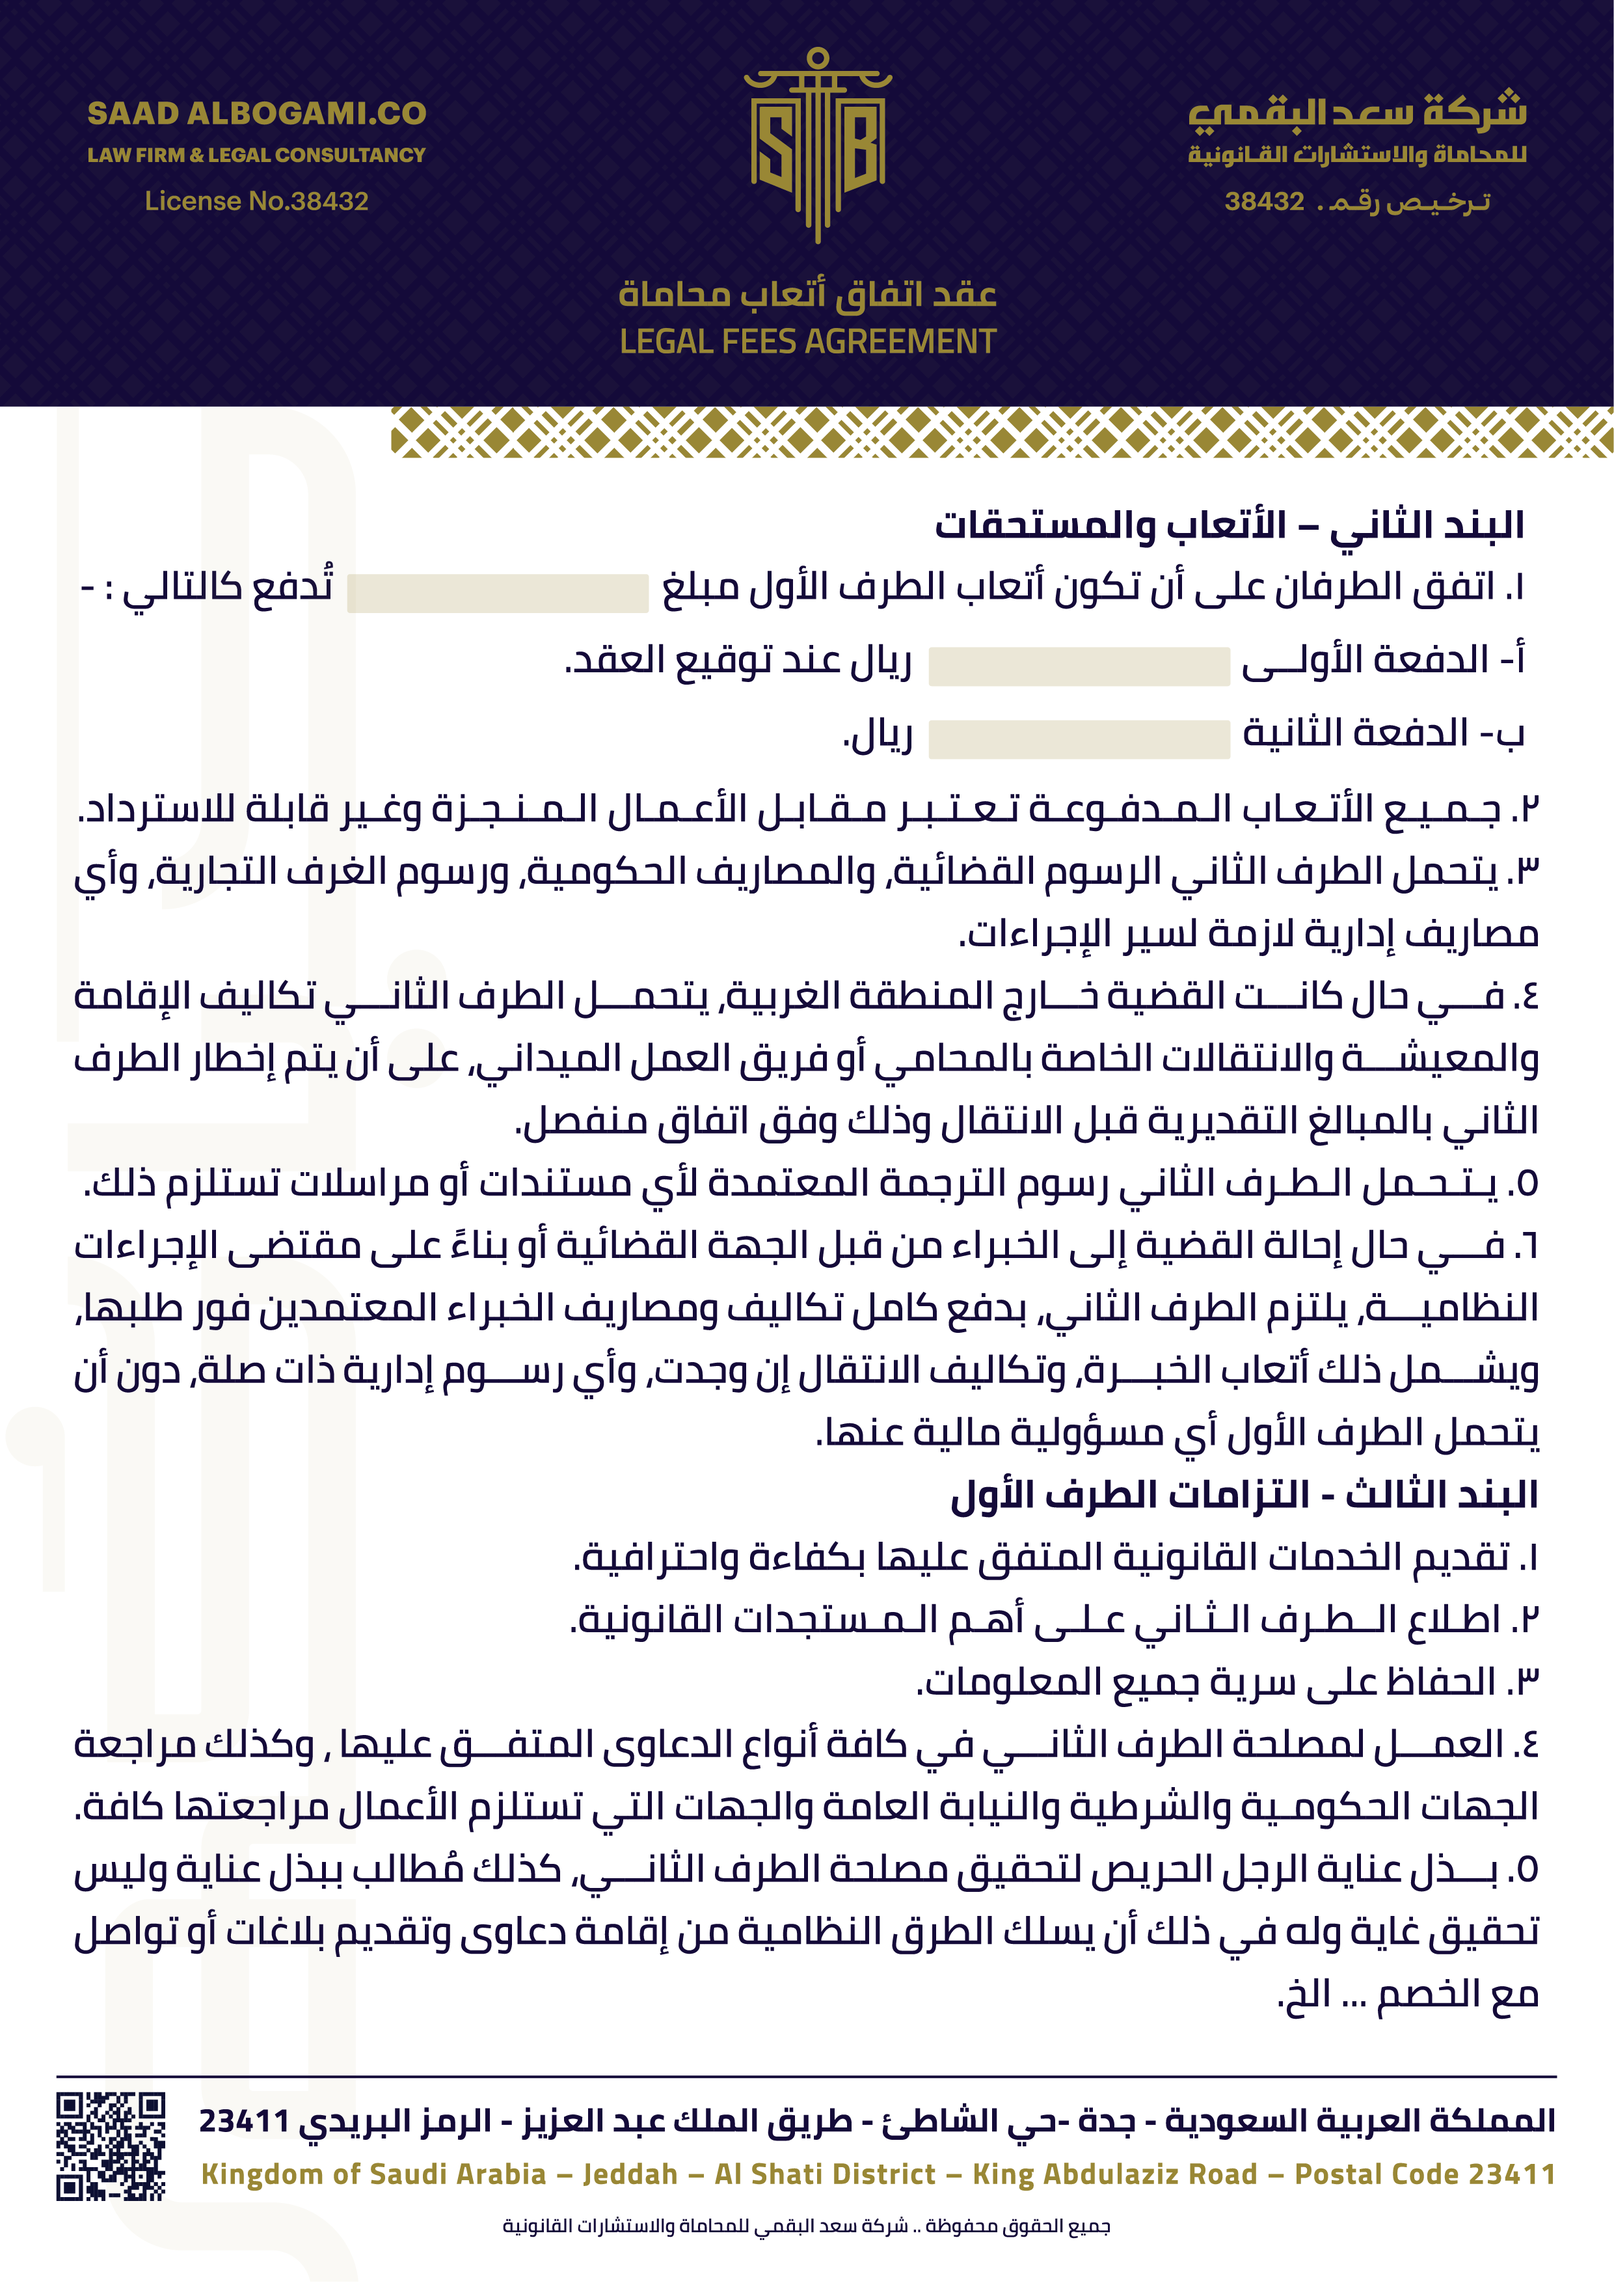
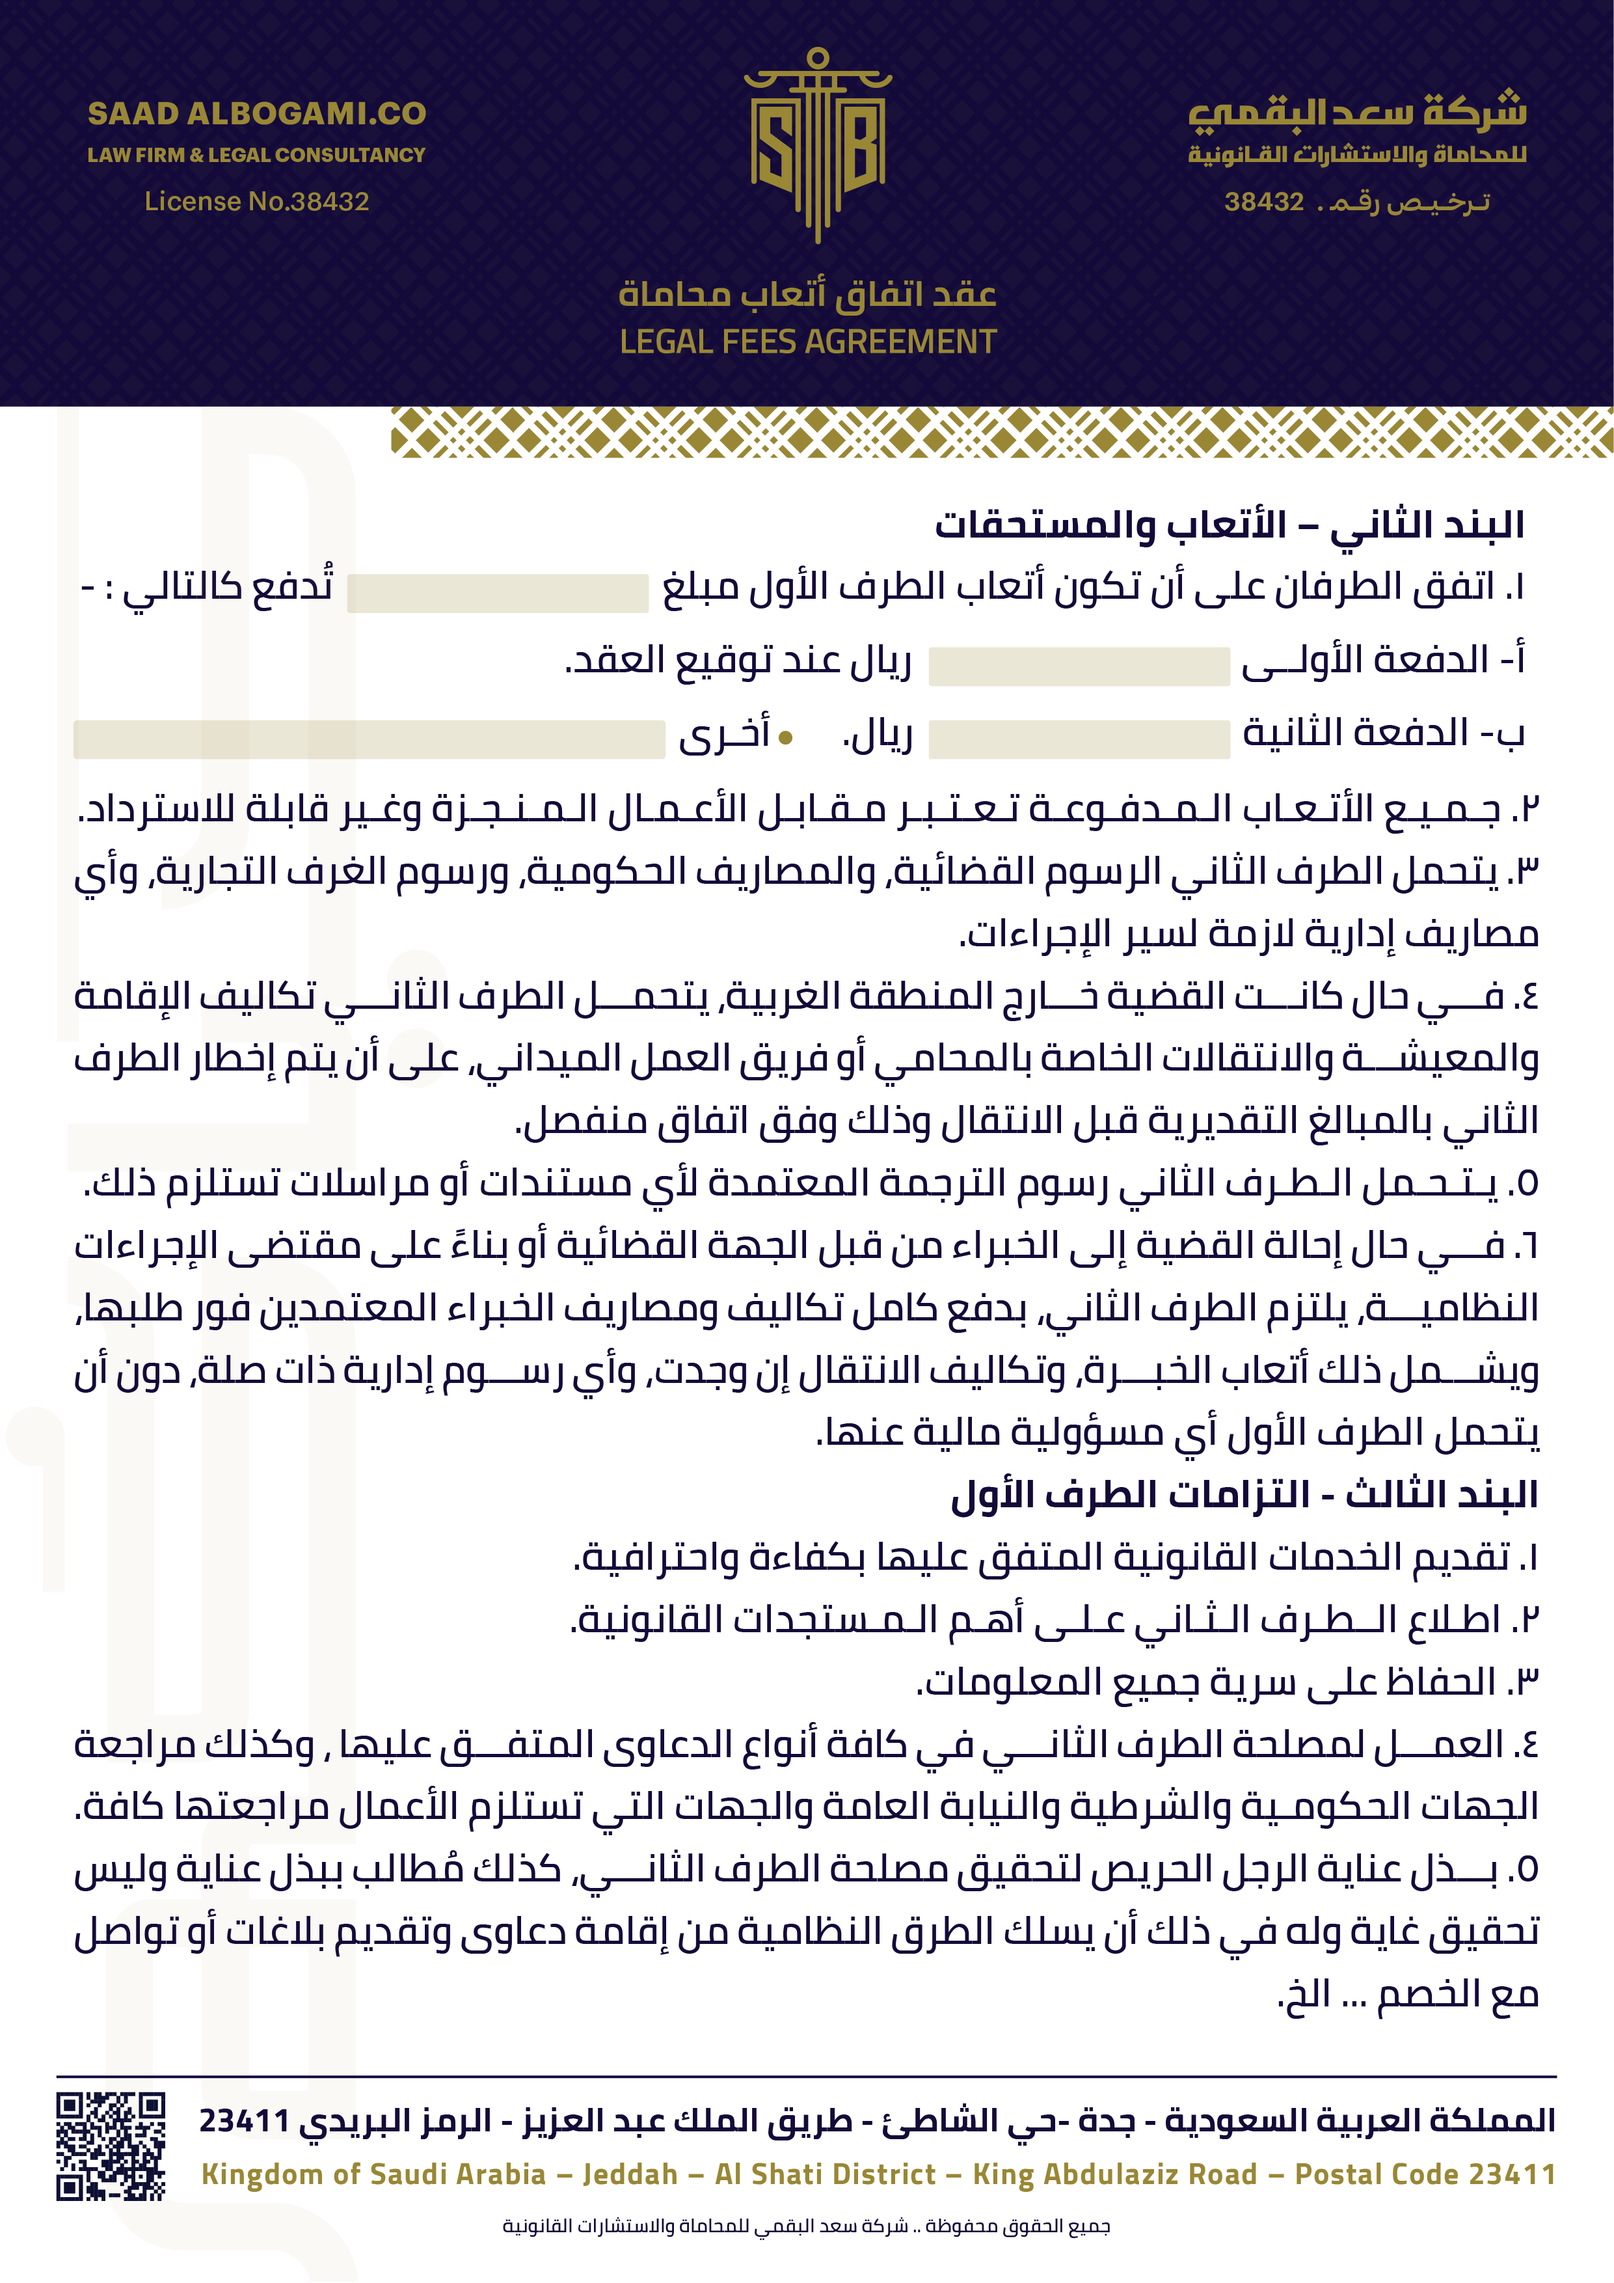
feat(lawyer-fees-contracts): add support for other fees in contract model and update related services and views

Changed region(s): [[0.031, 0.3107, 0.4966, 0.3418]]

diff --git a/src/modules/lawyer-fees-contracts/lawyer-fees-contracts.validator.ts b/src/modules/lawyer-fees-contracts/lawyer-fees-contracts.validator.ts
@@ -37,6 +37,7 @@ export const UpdateLawyerFeesContractSchema = z
         totalFees:         decimalLike.nullable().optional(),
         firstInstallment:  decimalLike.nullable().optional(),
         secondInstallment: decimalLike.nullable().optional(),
+        otherFees:         z.string().nullable().optional(),
         currency:          z.string().nullable().optional(),
 
         // Signature fields are accepted now but only meaningful once the

diff --git a/src/modules/lawyer-fees-contracts/lawyer-fees-pdf.service.ts b/src/modules/lawyer-fees-contracts/lawyer-fees-pdf.service.ts
@@ -53,6 +53,7 @@ export function buildLawyerFeesContractContext(c: LawyerFeesContract) {
         total_fees:         formatAmount(c.totalFees),
         first_installment:  formatAmount(c.firstInstallment),
         second_installment: formatAmount(c.secondInstallment),
+        other_fees:         c.otherFees ?? "",
         currency:           c.currency ?? "SAR",
 
         first_party_signature_url:  c.firstPartySignature  ?? "",

diff --git a/src/modules/lawyer-fees-contracts/lawyer-fees-contracts.service.ts b/src/modules/lawyer-fees-contracts/lawyer-fees-contracts.service.ts
@@ -366,6 +366,7 @@ ${link.url}
             totalFees:         c.totalFees,
             firstInstallment:  c.firstInstallment,
             secondInstallment: c.secondInstallment,
+            otherFees:         c.otherFees,
             currency:          c.currency,
 
             firstPartySignature:  c.firstPartySignature,
